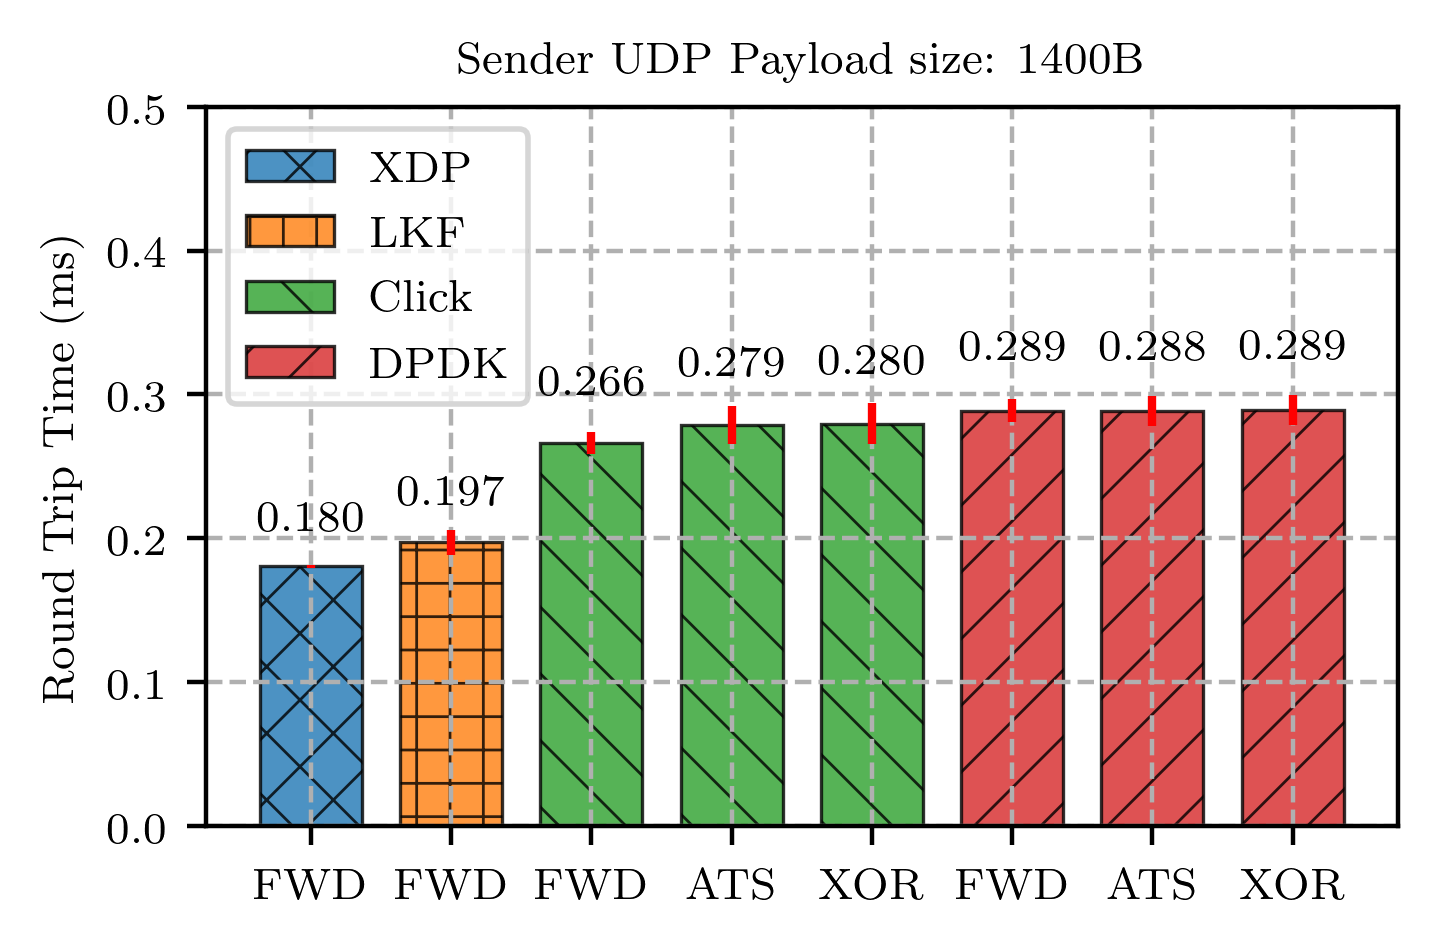
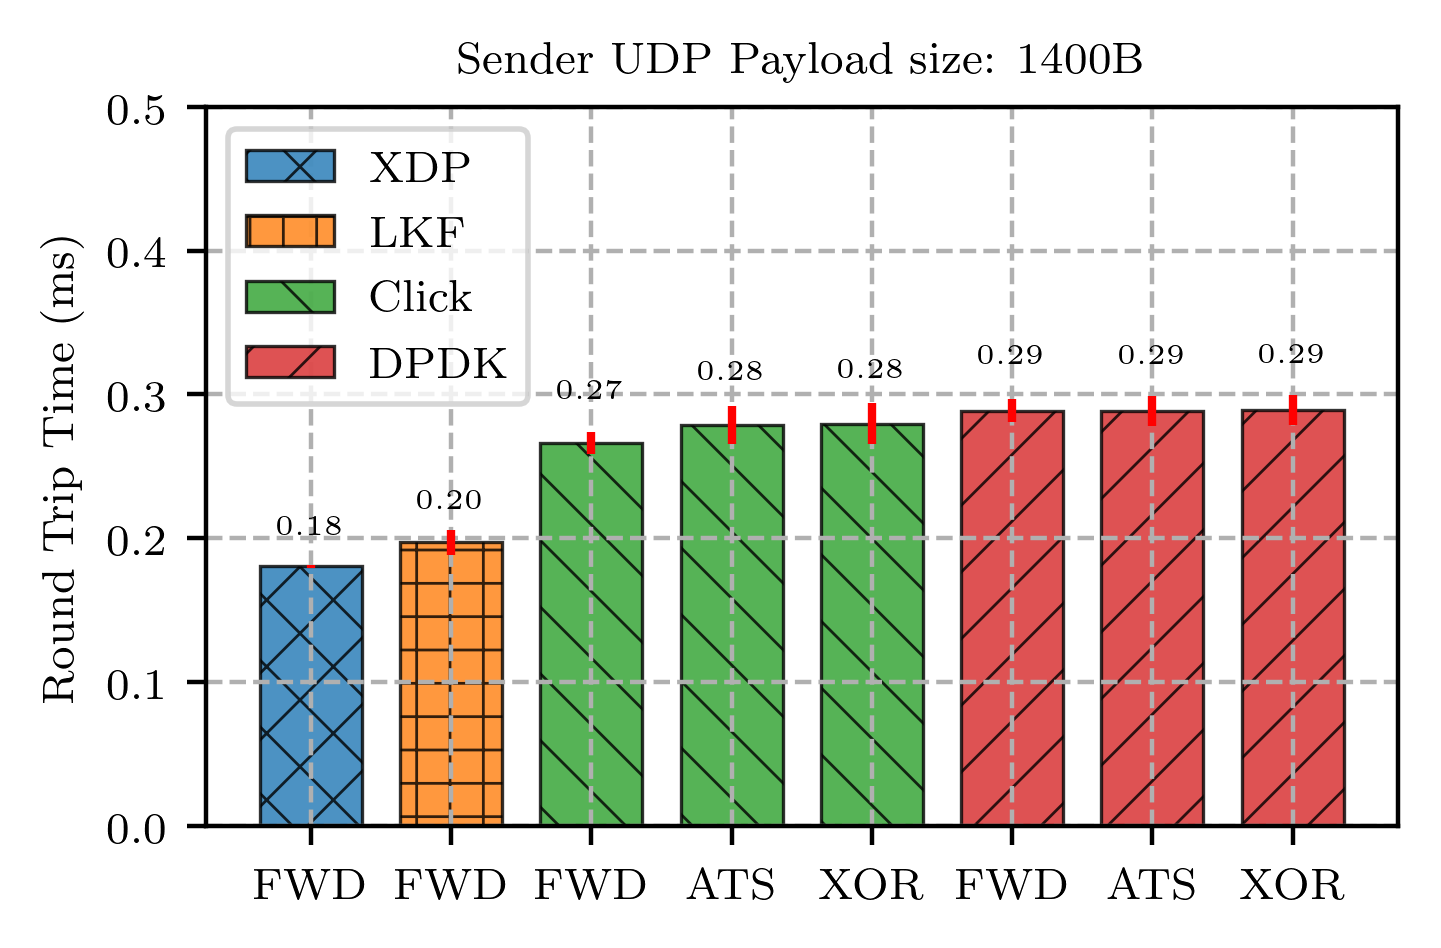
<data>: Update RTT results for PS 256B

diff --git a/evaluation/round_trip_time/plot.py b/evaluation/round_trip_time/plot.py
@@ -112,7 +112,7 @@ def label_bar(rects, ax):
     for rect in rects:
         height = rect.get_height()
         ax.text(rect.get_x() + rect.get_width() / 2., 1.1*height,
-                '%.3f' % height,
+                '%.2f' % height, fontsize=5,
                 ha='center', va='bottom')
 
 
